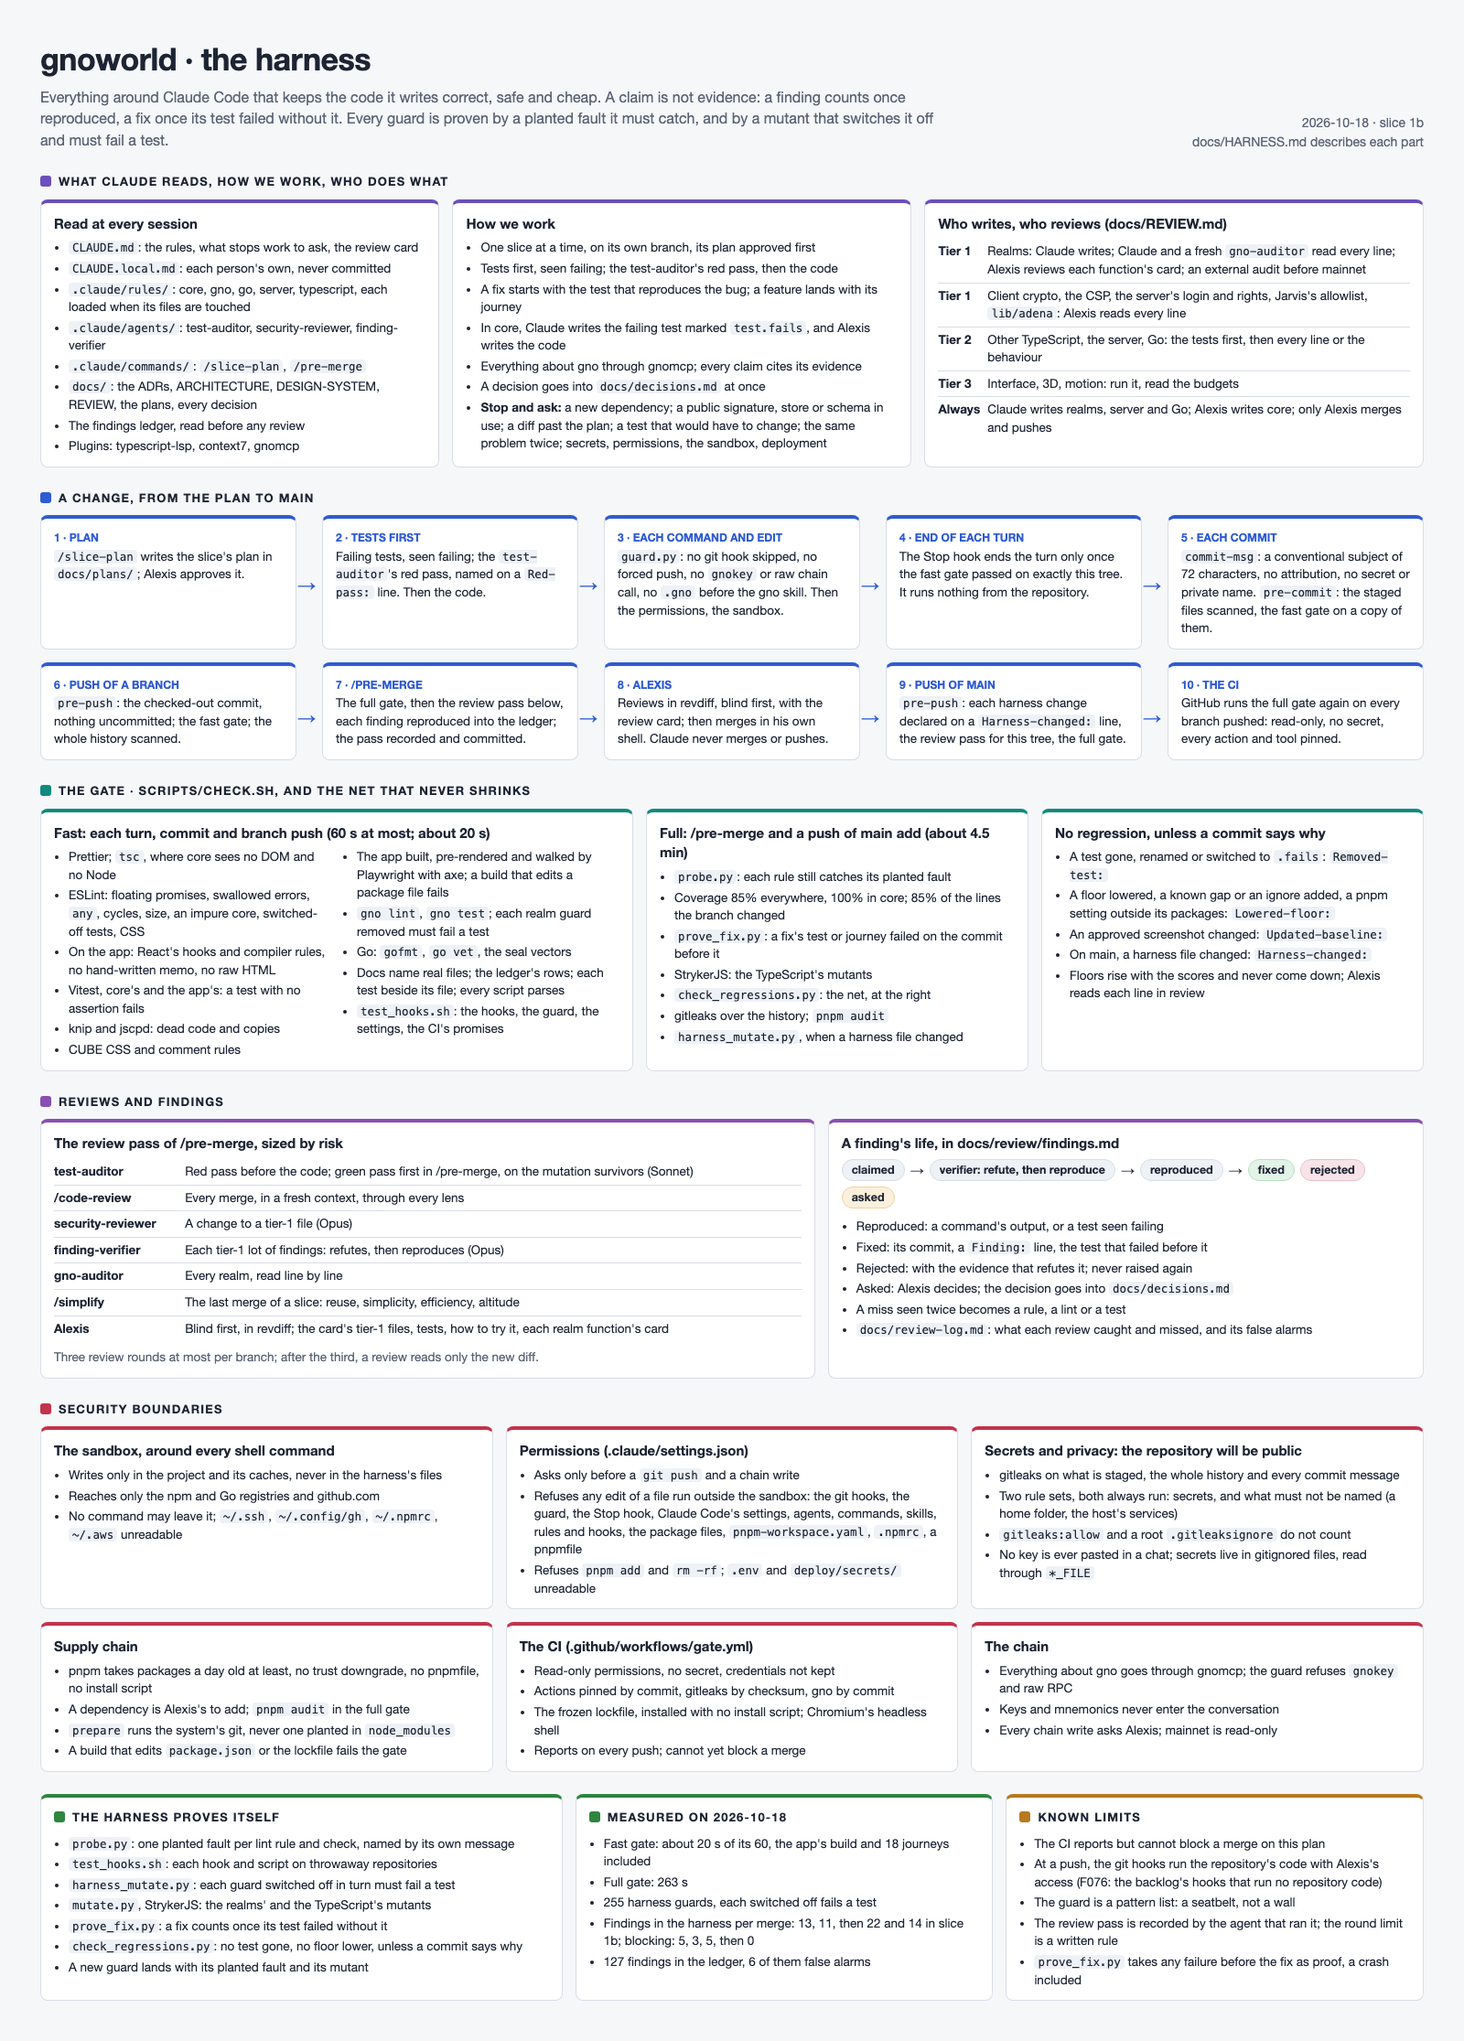
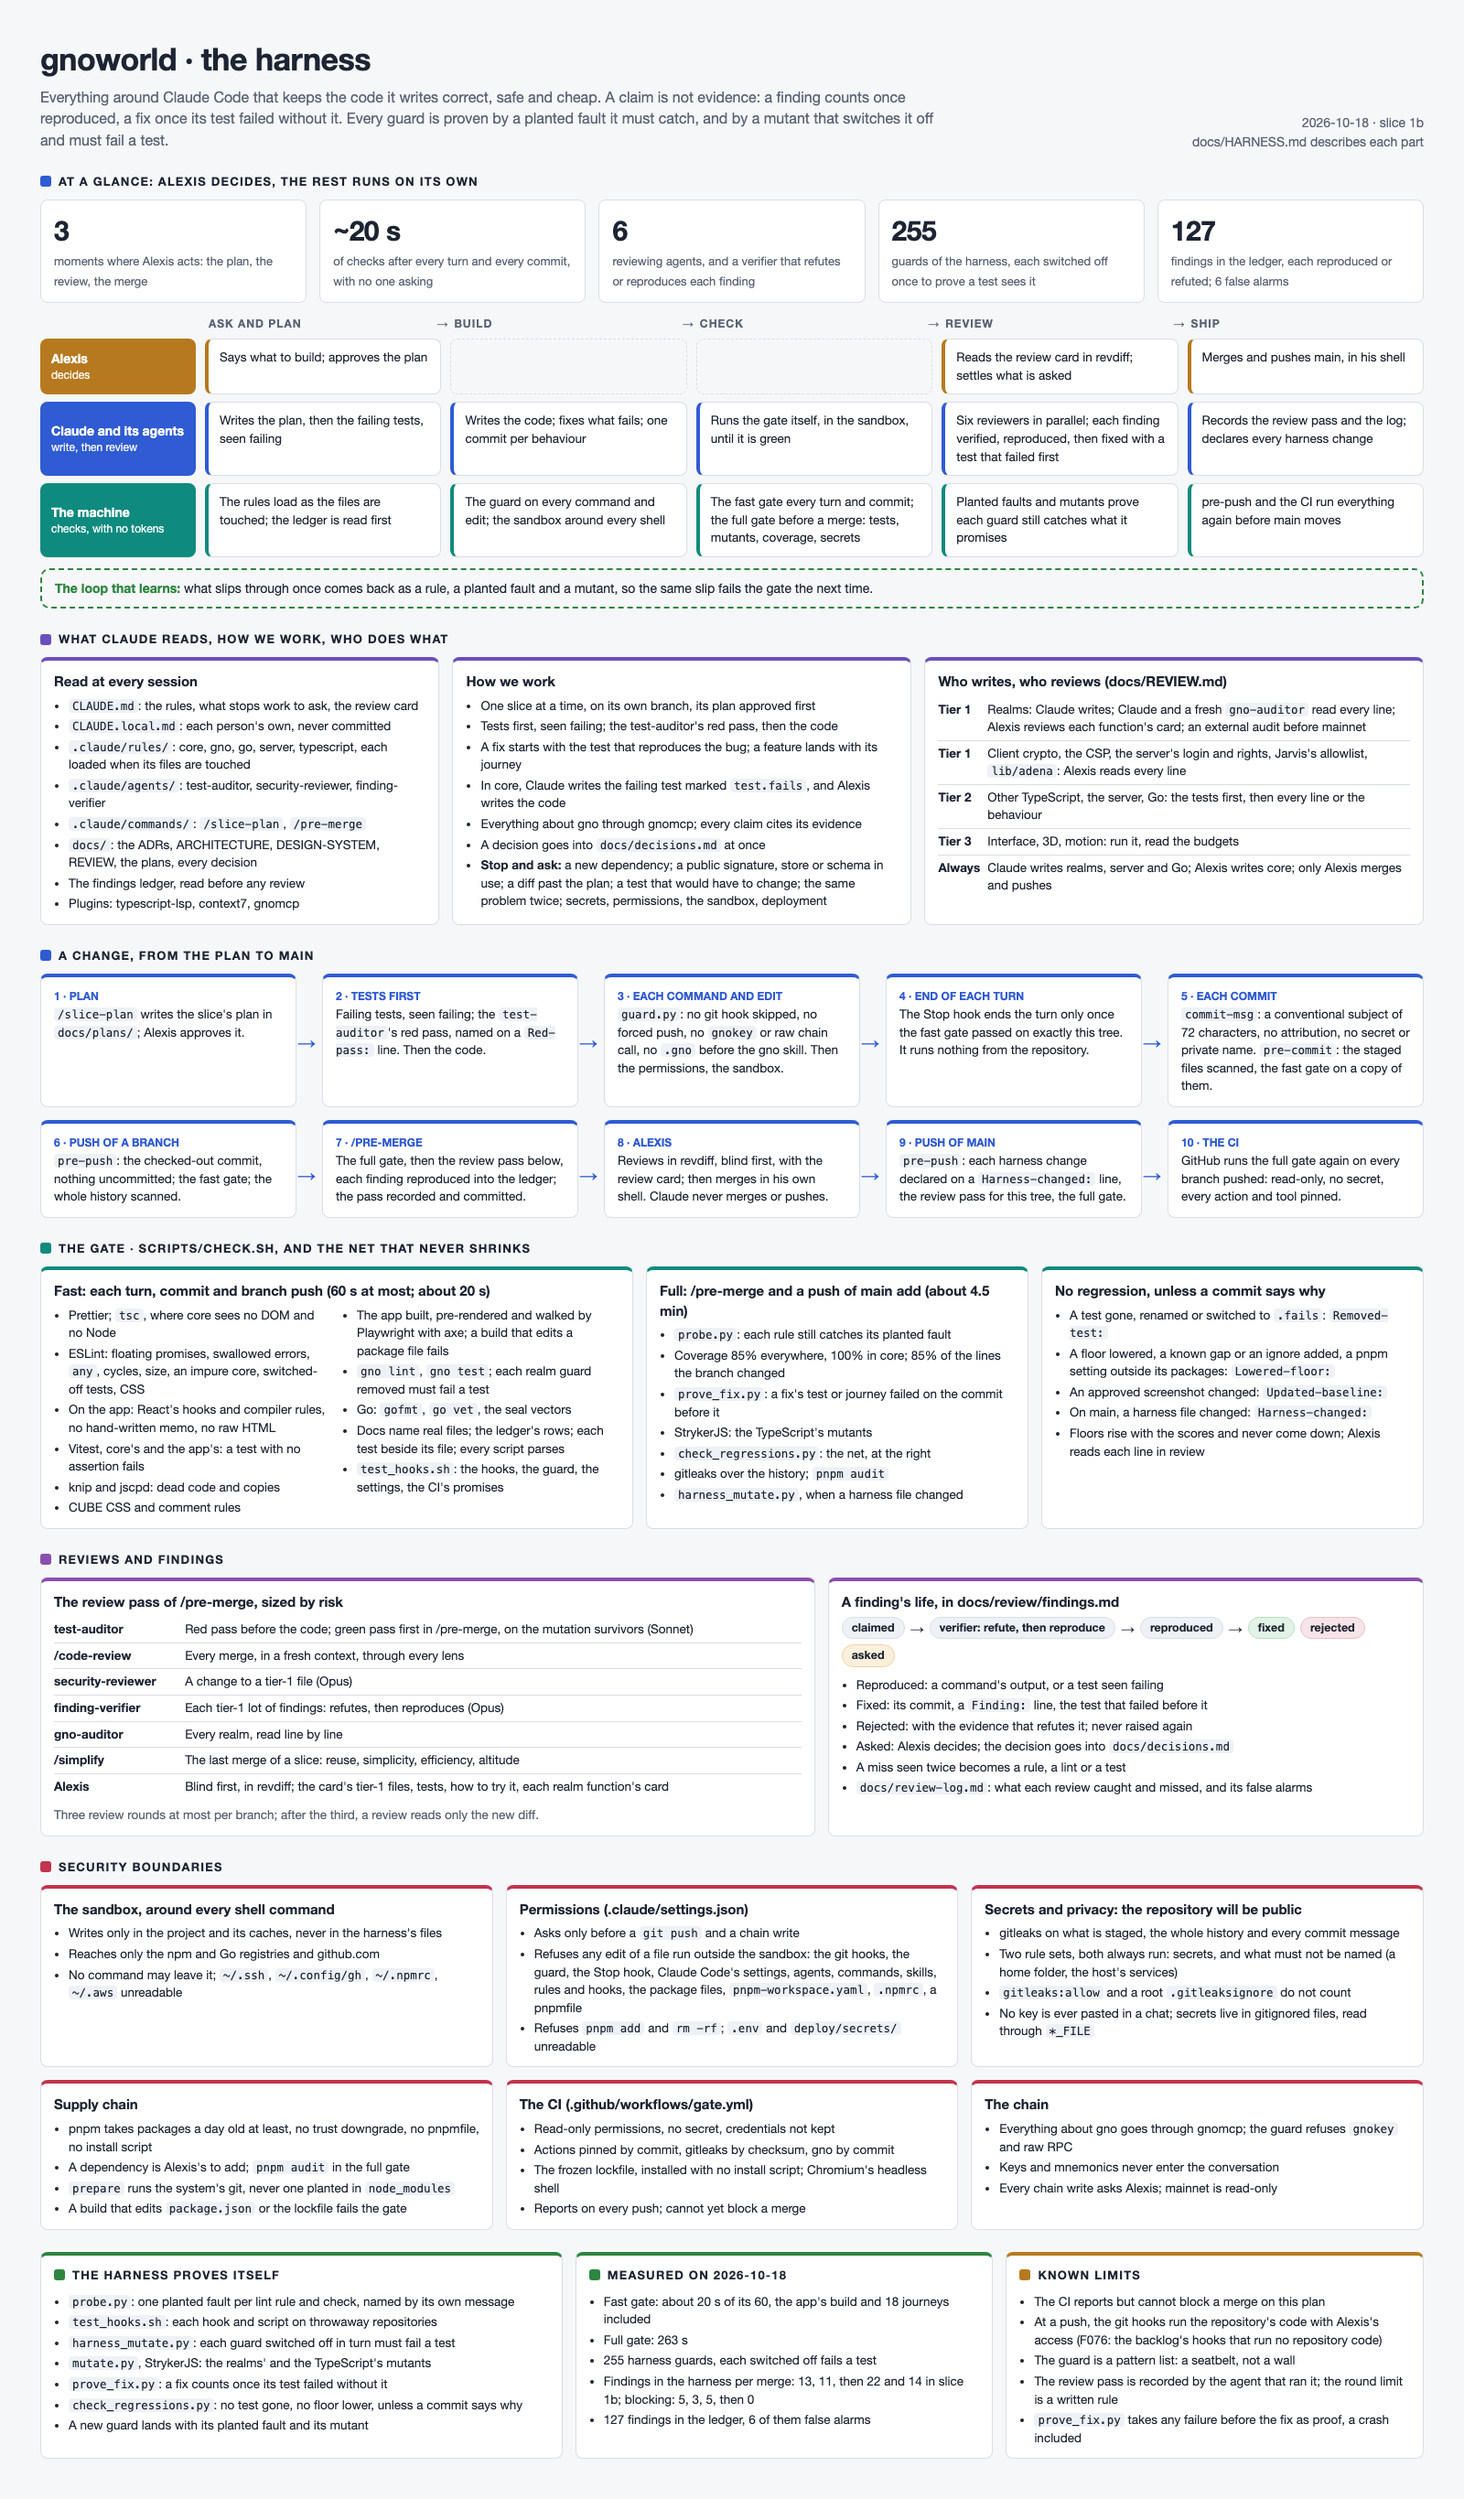
docs: the harness at a glance, above its parts
Alexis asked for a wider, simpler picture on top that shows what runs on its own, not only the gates: the three moments he acts, what Claude and its agents do, what the machine checks with no tokens, and the loop that turns a slip into a rule, a planted fault and a mutant.

Changed region(s): [[0.0, 0.0, 0.9688, 0.9897], [0.875, 0.0309, 0.9688, 0.0619]]

diff --git a/docs/harness.html b/docs/harness.html
@@ -179,6 +179,97 @@
         font-size: 12.5px;
         margin-top: 8px;
       }
+      .numbers {
+        grid-template-columns: repeat(5, 1fr);
+      }
+      .number {
+        background: var(--card);
+        border: 1px solid var(--line);
+        border-radius: 8px;
+        padding: 12px 14px;
+      }
+      .number b {
+        display: block;
+        font-size: 30px;
+        letter-spacing: -0.5px;
+        font-variant-numeric: tabular-nums;
+      }
+      .number span {
+        font-size: 13px;
+        color: var(--muted);
+      }
+      .lanes-wrap {
+        overflow-x: auto;
+      }
+      .lanes {
+        min-width: 900px;
+        display: grid;
+        grid-template-columns: 170px repeat(5, 1fr);
+        gap: 8px 10px;
+        margin-top: 14px;
+      }
+      .phase {
+        font-size: 12px;
+        font-weight: 700;
+        letter-spacing: 1px;
+        text-transform: uppercase;
+        color: var(--muted);
+        padding: 0 4px;
+        position: relative;
+      }
+      .phase:not(:nth-child(6))::after {
+        content: "→";
+        position: absolute;
+        right: -8px;
+        color: var(--muted);
+      }
+      .who {
+        font-weight: 700;
+        font-size: 14px;
+        padding: 10px 12px;
+        border-radius: 8px;
+        color: var(--card);
+        background: var(--accent);
+        display: flex;
+        flex-direction: column;
+        justify-content: center;
+      }
+      .who small {
+        font-weight: 400;
+        font-size: 12px;
+        opacity: 0.9;
+      }
+      .cell {
+        border-radius: 8px;
+        padding: 10px 12px;
+        font-size: 13.5px;
+        border: 1px solid var(--line);
+        background: var(--card);
+        border-left: 4px solid var(--accent);
+      }
+      .cell.empty {
+        border: 1px dashed var(--line);
+        background: transparent;
+      }
+      .human {
+        --accent: var(--limit);
+      }
+      .agent {
+        --accent: var(--flow);
+      }
+      .machine {
+        --accent: var(--gate);
+      }
+      .loop {
+        margin-top: 12px;
+        border: 2px dashed var(--proof);
+        border-radius: 10px;
+        padding: 10px 14px;
+        font-size: 14px;
+      }
+      .loop b {
+        color: var(--proof);
+      }
     </style>
   </head>
   <body>
@@ -193,6 +284,52 @@
       </div>
       <div class="asof">2026-10-18 · slice 1b<br />docs/HARNESS.md describes each part</div>
     </header>
+
+    <section style="--accent: var(--flow)">
+      <h2>At a glance: Alexis decides, the rest runs on its own</h2>
+      <div class="grid numbers">
+        <div class="number"><b>3</b><span>moments where Alexis acts: the plan, the review, the merge</span></div>
+        <div class="number"><b>~20 s</b><span>of checks after every turn and every commit, with no one asking</span></div>
+        <div class="number"><b>6</b><span>reviewing agents, and a verifier that refutes or reproduces each finding</span></div>
+        <div class="number"><b>255</b><span>guards of the harness, each switched off once to prove a test sees it</span></div>
+        <div class="number"><b>127</b><span>findings in the ledger, each reproduced or refuted; 6 false alarms</span></div>
+      </div>
+      <div class="lanes-wrap">
+      <div class="lanes">
+        <div></div>
+        <div class="phase">Ask and plan</div>
+        <div class="phase">Build</div>
+        <div class="phase">Check</div>
+        <div class="phase">Review</div>
+        <div class="phase">Ship</div>
+
+        <div class="who human">Alexis<small>decides</small></div>
+        <div class="cell human">Says what to build; approves the plan</div>
+        <div class="cell empty"></div>
+        <div class="cell empty"></div>
+        <div class="cell human">Reads the review card in revdiff; settles what is asked</div>
+        <div class="cell human">Merges and pushes main, in his shell</div>
+
+        <div class="who agent">Claude and its agents<small>write, then review</small></div>
+        <div class="cell agent">Writes the plan, then the failing tests, seen failing</div>
+        <div class="cell agent">Writes the code; fixes what fails; one commit per behaviour</div>
+        <div class="cell agent">Runs the gate itself, in the sandbox, until it is green</div>
+        <div class="cell agent">Six reviewers in parallel; each finding verified, reproduced, then fixed with a test that failed first</div>
+        <div class="cell agent">Records the review pass and the log; declares every harness change</div>
+
+        <div class="who machine">The machine<small>checks, with no tokens</small></div>
+        <div class="cell machine">The rules load as the files are touched; the ledger is read first</div>
+        <div class="cell machine">The guard on every command and edit; the sandbox around every shell</div>
+        <div class="cell machine">The fast gate every turn and commit; the full gate before a merge: tests, mutants, coverage, secrets</div>
+        <div class="cell machine">Planted faults and mutants prove each guard still catches what it promises</div>
+        <div class="cell machine">pre-push and the CI run everything again before main moves</div>
+      </div>
+      </div>
+      <div class="loop">
+        <b>The loop that learns:</b> what slips through once comes back as a rule, a planted fault and a mutant, so the
+        same slip fails the gate the next time.
+      </div>
+    </section>
 
     <section style="--accent: var(--read)">
       <h2>What Claude reads, how we work, who does what</h2>

diff --git a/docs/HARNESS.md b/docs/HARNESS.md
@@ -14,7 +14,7 @@ Three ideas run through it:
 
 ## The picture
 
-![The harness: what Claude reads, a change from the plan to main, the gate, the reviews, the security boundaries, how the harness proves itself, its measures and its limits](harness.png)
+![The harness: at a glance, what Alexis decides and what runs on its own; then what Claude reads, a change from the plan to main, the gate, the reviews, the security boundaries, how the harness proves itself, its measures and its limits](harness.png)
 
 Its source is [harness.html](harness.html). After changing it, render the image again from the
 repository's root (in Claude Code's sandbox, launch Chromium with `args: ["--single-process"]`):
